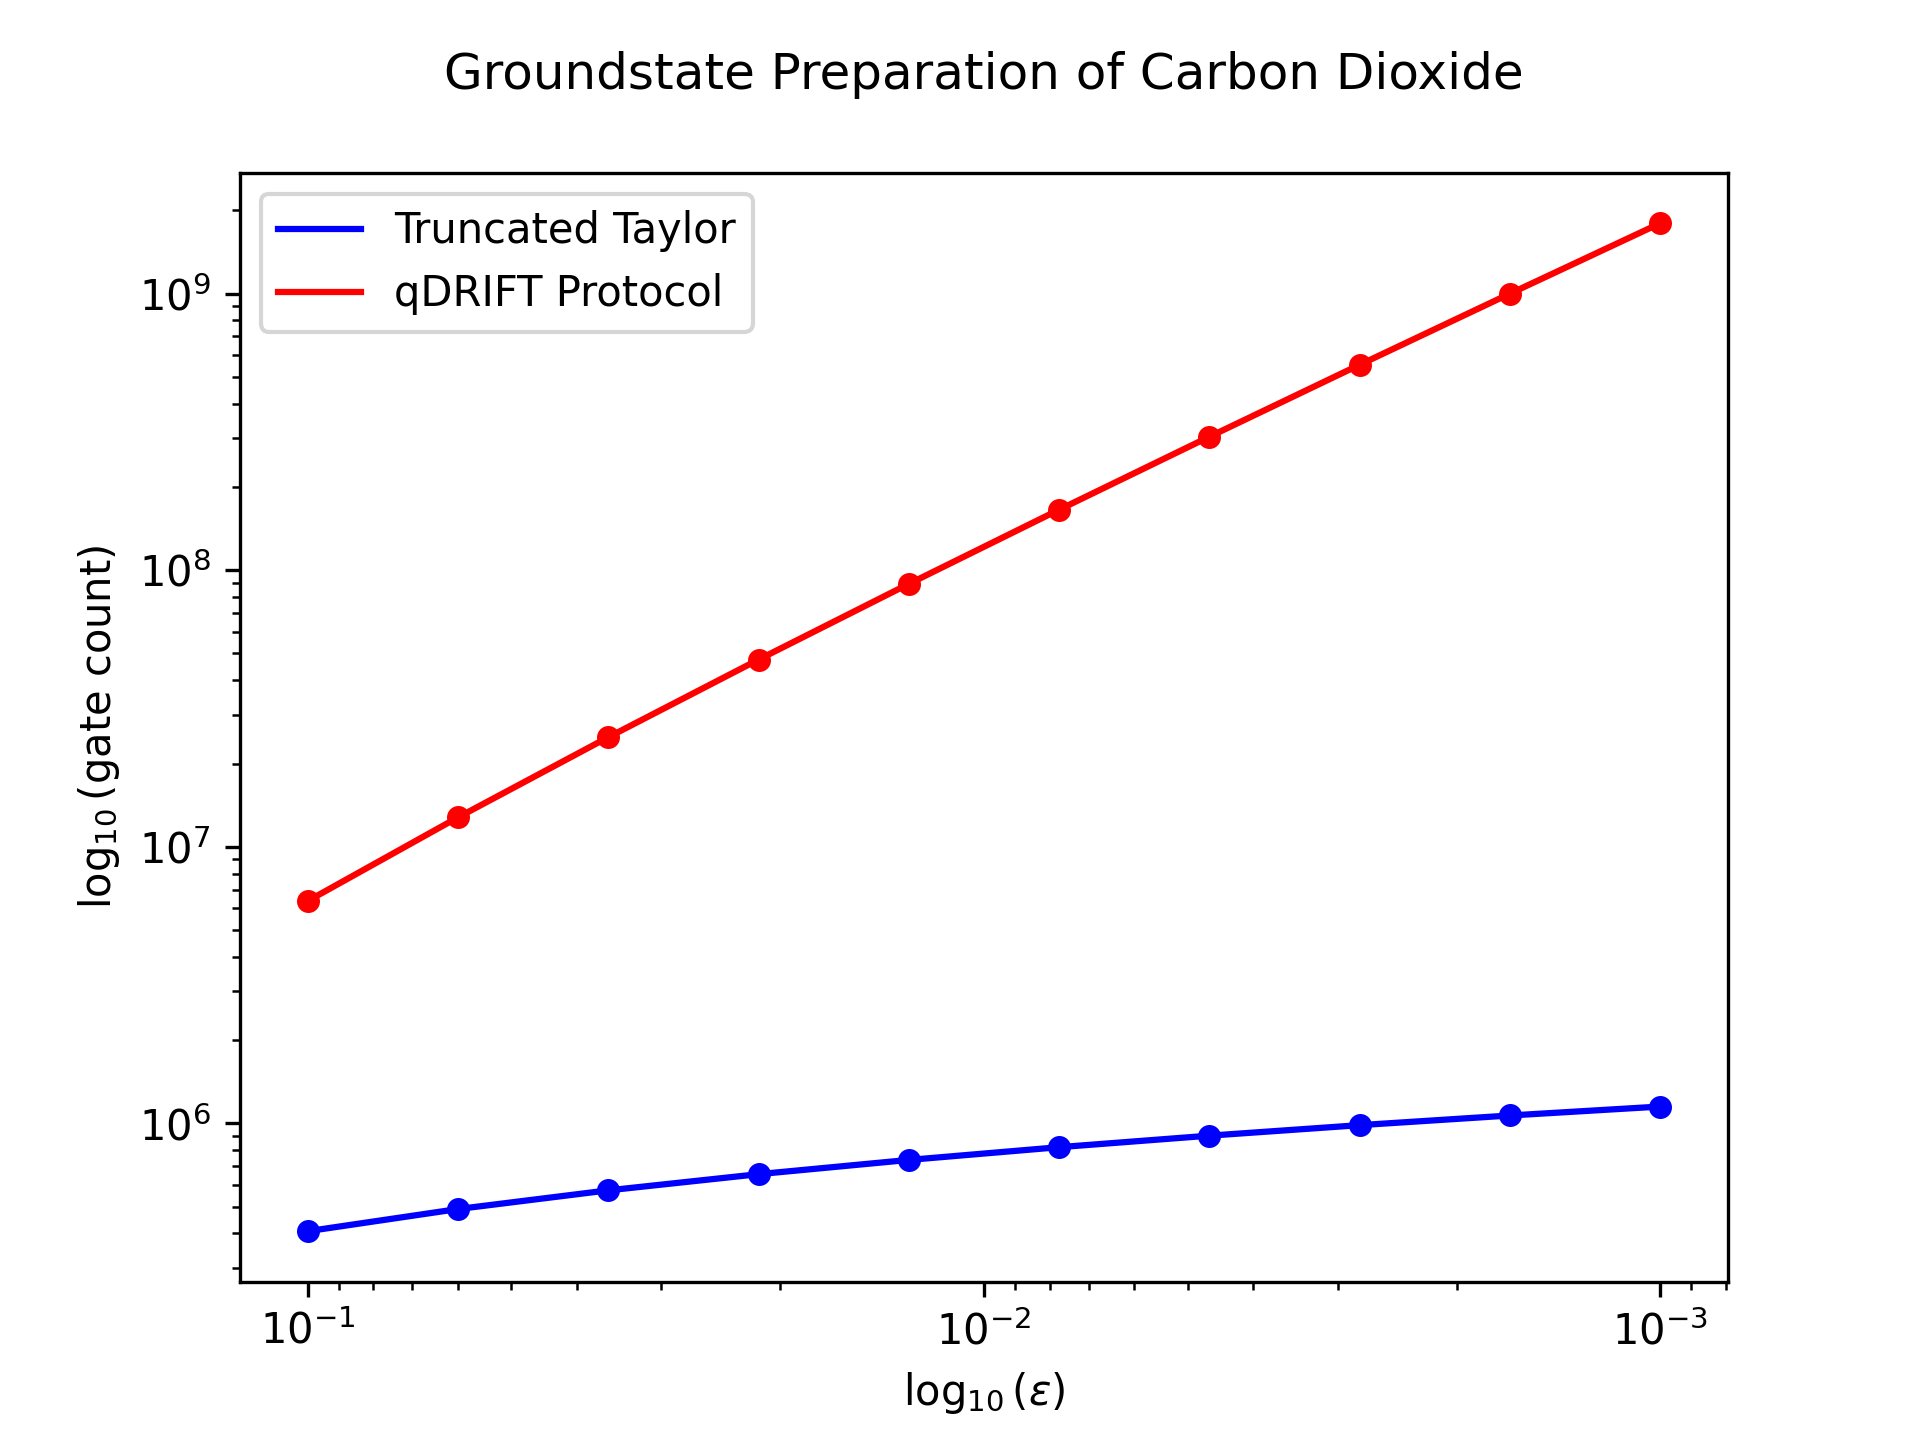
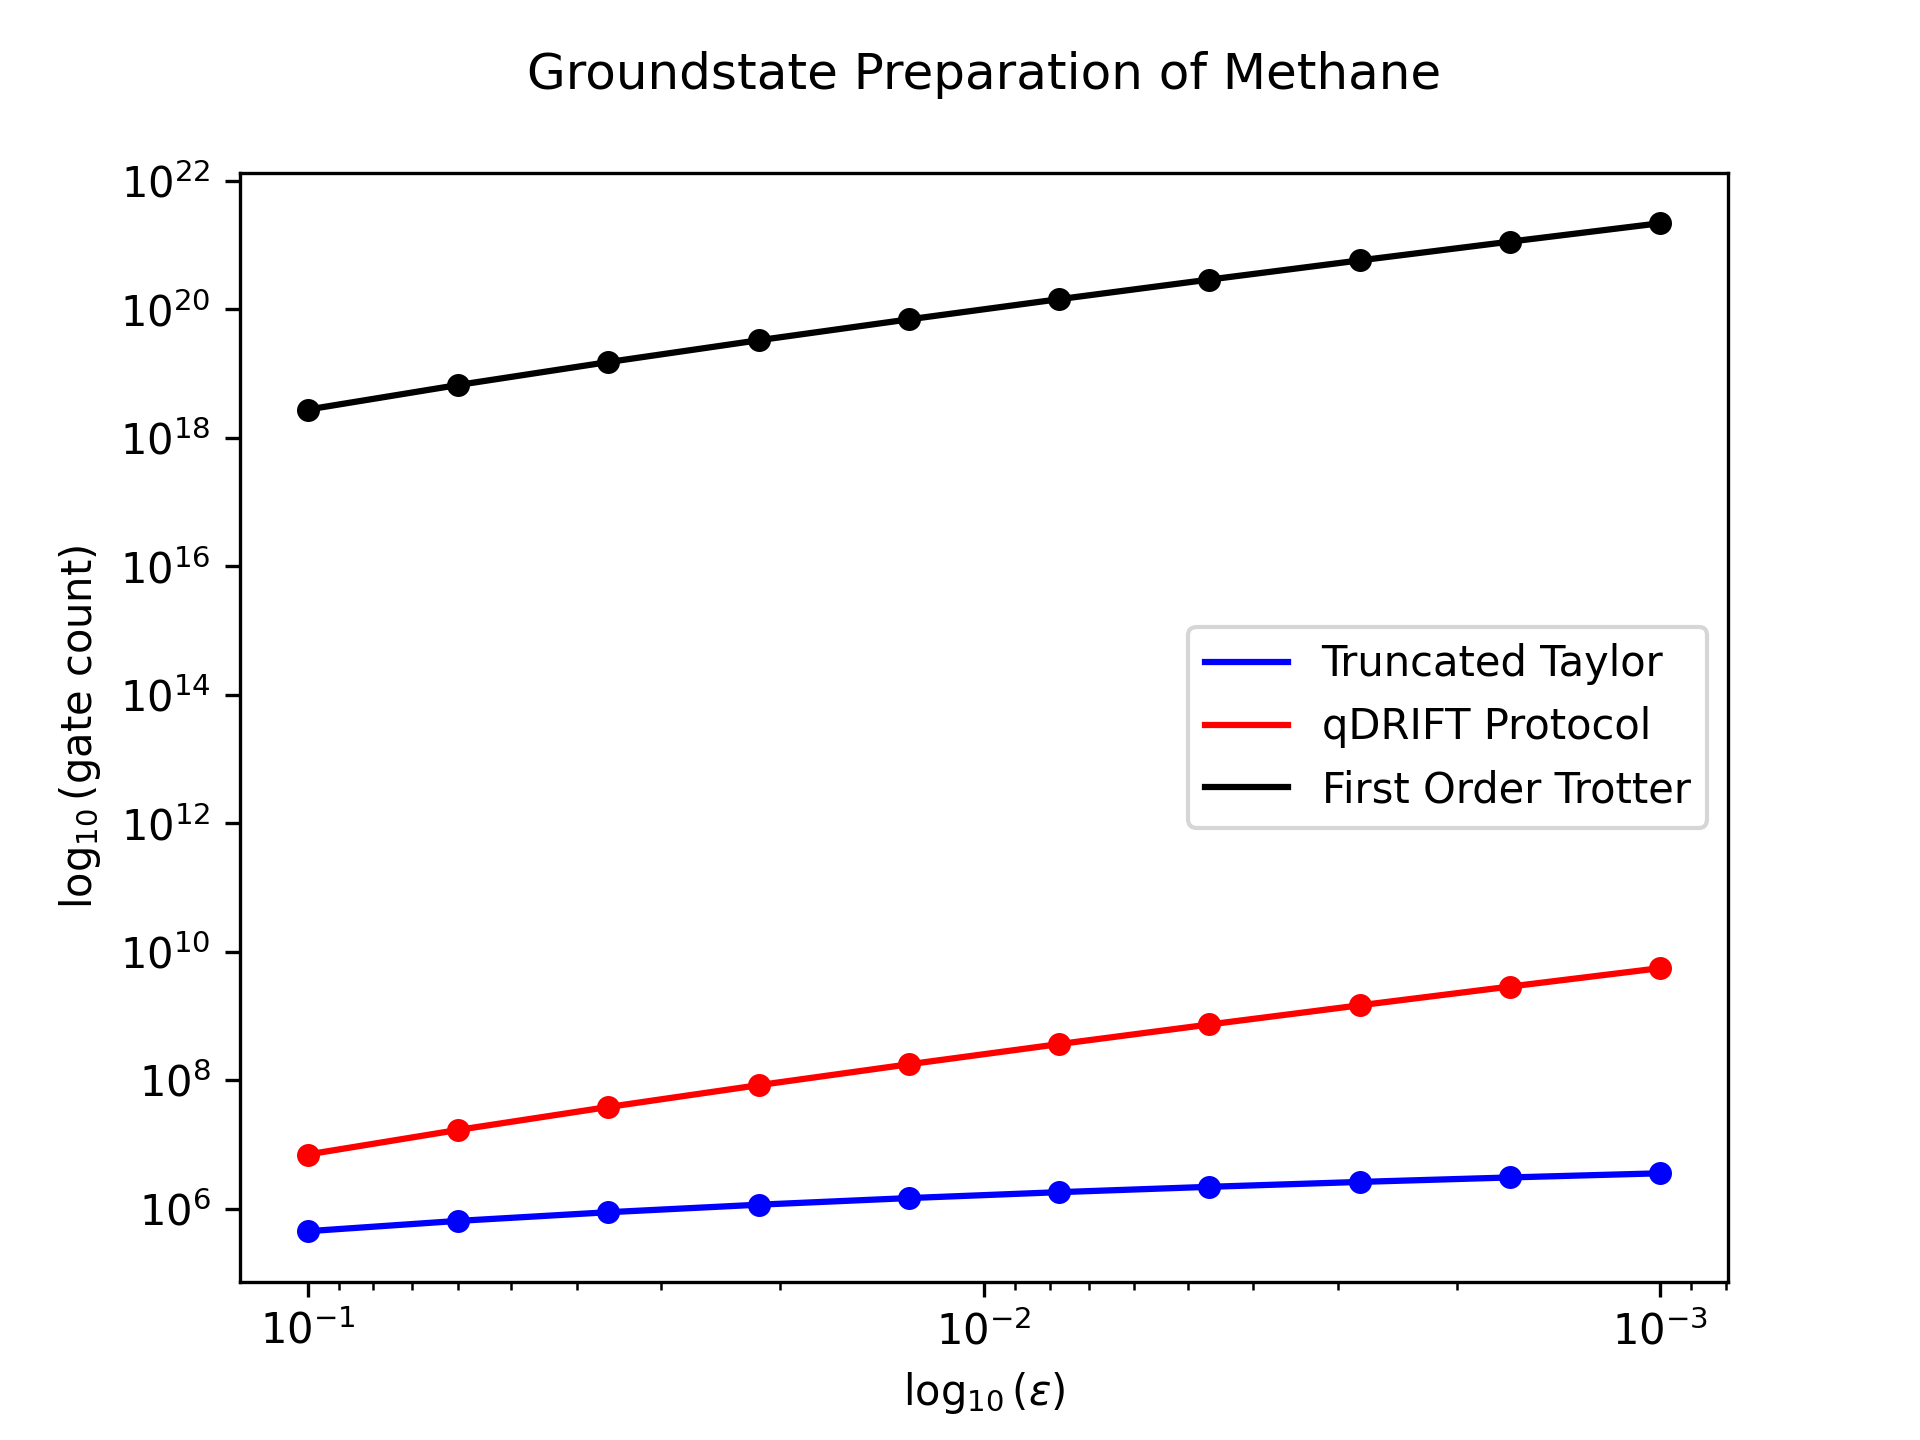
epsilon vs gate depth for molecules

diff --git a/ising/benchmark/molecule/epsilon_gate.py b/ising/benchmark/molecule/epsilon_gate.py
@@ -36,18 +36,20 @@ def plot_gate_error(
     configs = {
         "taylor": {"color": "blue", "label": "Truncated Taylor"},
         "qdrift": {"color": "red", "label": "qDRIFT Protocol"},
+        "trotter": {"color": "black", "label": "First Order Trotter"},
     }
 
     error_points = [
         10**x for x in np.linspace(start_err_exp, end_err_exp, point_count)
     ]
-    taylor, qdrift = [], []
+    trotter, taylor, qdrift = [], [], []
 
     for eps in error_points:
         taylor.append(groundstate_depth.truncated_taylor(molecule, eeta, eps, obs_norm))
         qdrift.append(groundstate_depth.qdrift(molecule, eeta, eps, obs_norm))
+        trotter.append(groundstate_depth.first_order_trotter(molecule, eeta, eps, obs_norm))
 
-    results = {"taylor": taylor, "qdrift": qdrift}
+    results = {"taylor": taylor, "qdrift": qdrift, "trotter": trotter}
 
     for method, config in configs.items():
         result = results[method]
@@ -55,23 +57,32 @@ def plot_gate_error(
             y=result,
             x=error_points,
             ax=ax,
-            label=configs[method]["label"],
             color=config["color"],
+            alpha=0.5
         )
-        sns.scatterplot(y=result, x=error_points, ax=ax, color=config["color"])
+        sns.scatterplot(
+                y=result, 
+                x=error_points, 
+                ax=ax, 
+                color=config["color"],
+                label=configs[method]["label"],
+                )
 
     ax.set_xscale("log")
     ax.set_yscale("log")
 
     ax.invert_xaxis()
 
-    ax.set_xlabel(r"$\log_{10}(\epsilon)$")
-    ax.set_ylabel(r"$\log_{10}(\text{gate count})$")
+    ax.set_xlabel(r"Error ($\log_{10}$ Scale)")
+    ax.set_ylabel(r"Gate Depth ($\log_{10}$ Scale)")
 
-    ax.set_title("Groundstate Preparation of Methane", pad=20)
 
-    plt.legend()
-    diagram_name = f"plots/benchmark/molecule/eps_gate/{name}_qdrift_tts.png"
+    # SETTING: AXIS VISIBILITY
+    ax.spines["top"].set_visible(False)
+    ax.spines["right"].set_visible(False)
+
+    plt.legend(loc="upper center", bbox_to_anchor=(0.5, 1.15), ncol=3, fontsize=10)
+    diagram_name = f"plots/benchmark/molecule/eps_gate/{name}_trotter_qdrift_tts.png"
     print(f"Saving diagram at:{diagram_name}")
     plt.savefig(diagram_name, dpi=300)
 
@@ -80,7 +91,7 @@ if __name__ == "__main__":
     name = "methane"
     molecule = parse(name)
     start_err_exp = -1
-    end_err_exp = -3
+    end_err_exp = -5
     eeta = 0.8
     point_count = 10
     obs_norm = 1

diff --git a/ising/benchmark/groundstate_depth.py b/ising/benchmark/groundstate_depth.py
@@ -78,7 +78,7 @@ def truncated_taylor(
     beta = np.sum(np.abs(ham.coeffs))
     delta = ham.approx_spectral_gap
 
-    nmr = (beta**2) * np.log10(obs_norm / (eps * eeta))
+    nmr = (beta**2) * (np.log10(obs_norm / (eps * eeta)) ** 2)
     dr = delta**2
     return np.ceil(nmr / dr).astype(int)
 
@@ -93,9 +93,9 @@ def first_order_trotter(
     lambd = np.max(np.abs(ham.coeffs))
     delta = ham.approx_spectral_gap
 
-    nmr = obs_norm * (lambd**2) * (l**3) * np.log10(obs_norm / (eeta * eps))
+    nmr = obs_norm * (lambd**2) * (l**3) * (np.log10(obs_norm / (eeta * eps)) ** 2)
     dr = eps * eeta**2 * delta**2
-    return np.ceil(nmr / dr).astype(int)
+    return np.ceil(nmr / dr)
 
 
 def qdrift(ham: Hamiltonian, eeta: float, eps: float, obs_norm: float = 1) -> int:
@@ -105,6 +105,6 @@ def qdrift(ham: Hamiltonian, eeta: float, eps: float, obs_norm: float = 1) -> in
     beta = np.sum(np.abs(ham.coeffs))
     delta = ham.approx_spectral_gap
 
-    nmr = obs_norm * (beta**2) * np.log10(obs_norm / (eeta * eps))
+    nmr = obs_norm * (beta**2) * (np.log10(obs_norm / (eeta * eps)) ** 2)
     dr = eps * eeta**2 * delta**2
     return np.ceil(nmr / dr).astype(int)
